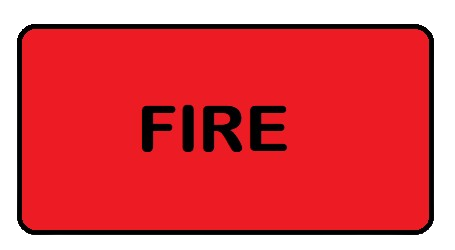
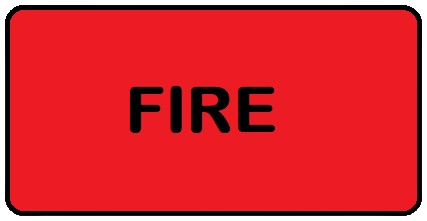
Implemented pointer hold event support for buttons Added placeholder assets for additional buttons

Changed region(s): [[0.0, 0.0, 1.0, 0.9774], [0.3044, 0.3801, 0.6698, 0.6244]]

diff --git a/ricelife-game/client/scripts/main.js b/ricelife-game/client/scripts/main.js
@@ -39,32 +39,34 @@ async function fireProjectile (shot, state, config) { // [!} laziness
 function handleInput (state, config) {
     const player = state.tanks[config.playerTank];
     const { keyboard, pointer } = state.input;
-    let pointerActive = false; // pointer inputs take precedence over keyboard inputs. don't "fight" for conflicting controls
-    // pointer
-    // [!] pointer logic handled by callbacks for now
-    
-    // keyboard
-    if (state.projectile === undefined) {
-        for (const [keyMapping, shotType] of Object.entries(state.projectileTypes))
-            if (keyboard.keyActive(keyMapping)) {
-                fireProjectile(shotType, state, config);
-                break;
-            }
-    }
-    player.position.round(1/GLOBAL_RESOLUTION);
-    if (keyboard.keyActive("mv+")) {
-        state.move.move(1);
-    }
-    if (keyboard.keyActive("mv-")) {
-        state.move.move(-1);
-    }
-    if (keyboard.keyActive("shot+")) {
-        state.aimer.power+=.02;
-    }
-    if (keyboard.keyActive("shot-")) {
-        state.aimer.power-=.02;
-    }
-    if (!pointerActive) {
+    let pointerActive = pointer.isActive; // pointer inputs take precedence over keyboard inputs. don't "fight" for conflicting controls
+    // [!] most pointer logic handled by callbacks
+    if (pointerActive) {
+        // pointer
+        if (pointer.isHolding)
+            state.interface.onhold(pointer.position);
+    } else {
+        // keyboard
+        if (state.projectile === undefined) {
+            for (const [keyMapping, shotType] of Object.entries(state.projectileTypes))
+                if (keyboard.keyActive(keyMapping)) {
+                    fireProjectile(shotType, state, config);
+                    break;
+                }
+        }
+        player.position.round(1/GLOBAL_RESOLUTION);
+        if (keyboard.keyActive("mv+")) {
+            state.move.move(1);
+        }
+        if (keyboard.keyActive("mv-")) {
+            state.move.move(-1);
+        }
+        if (keyboard.keyActive("shot+")) {
+            state.aimer.power+=.02;
+        }
+        if (keyboard.keyActive("shot-")) {
+            state.aimer.power-=.02;
+        }
         if (keyboard.keyActive("aim+")) {
             state.aimer.rotation++;
         }
@@ -197,8 +199,13 @@ async function load() {
     const body = await new LoadImage("./assets/tank/body.png").onload;
     const barrel = await new LoadImage("./assets/tank/barrel.png").onload;
     const testExplosion = await new Spritesheet("./assets/blast/explosion_ss_512x512.png", 512, 512).onload;
-    const fireButton = await new LoadImage("./assets/interface/buttons/fire.png").onload;
-    main(body, barrel, testExplosion, fireButton);
+    const buttons = await Promise.all([
+        new LoadImage("./assets/interface/buttons/fire.png").onload,
+        new LoadImage("./assets/interface/buttons/select.png").onload,
+        new LoadImage("./assets/interface/buttons/right.png").onload,
+        new LoadImage("./assets/interface/buttons/left.png").onload
+    ]);
+    main(body, barrel, testExplosion, buttons);
 }
 
 const FPS = 60;
@@ -232,7 +239,7 @@ const POINTER_CALLBACKS = (aimCtrl) => ({
 });
 
 function main(...loaded) {
-    const [tankBodyImage, tankBarrelImage, testExplosion, fireButton] = loaded;
+    const [tankBodyImage, tankBarrelImage, testExplosion, buttons] = loaded;
     tankBodyImage.width = 50;
     tankBarrelImage.scale.apply(tankBodyImage.scale);
     {
@@ -299,14 +306,32 @@ function main(...loaded) {
     
     {
         // setting up UI
-        fireButton.width = 200;
-        const button = new Menu.Button(fireButton);
-        button.position.apply(75, 150);
+        const [fireImage, selectImage, rightImage, leftImage] = buttons;
+        fireImage.height = 100;
+        selectImage.height = 100;
+        rightImage.height = 100;
+        leftImage.height = 100;
+        const fireButton = new Menu.DispatchButton(fireImage, Display.canvas, "FIRE");
+        fireButton.position.apply(75, 150);
+        const selectButton = new Menu.DispatchButton(selectImage, Display.canvas, "SELECT");
+        selectButton.position.apply(300, 150);
+        const rightButton = new Menu.DispatchButton(rightImage, Display.canvas, "RMOVE");
+        rightButton.position.apply(Display.size.x - rightImage.width - 75, 150);
+        const leftButton = new Menu.DispatchButton(leftImage, Display.canvas, "LMOVE");
+        leftButton.position.apply(rightButton.position.x - leftImage.width - 25, 150);
+
+        const btns = [fireButton, selectButton, rightButton, leftButton];
+
+        // setting up button listeners
+        Display.canvas.addEventListener("RMOVE_HOLD", () => Mover.move(1));
+        Display.canvas.addEventListener("LMOVE_HOLD", () => Mover.move(-1));
+        Display.canvas.addEventListener("RMOVE_CLICK", () => Mover.move(1));
+        Display.canvas.addEventListener("LMOVE_CLICK", () => Mover.move(-1));
 
         UIInterface.insert() // draw layer zero after background but before terrain
             .push(Aimer);
         UIInterface.insert()
-            .push(button);
+            .push(...btns);
     }
 
     Mover.set(Math.floor(Display.size.x / 4));

diff --git a/ricelife-game/client/scripts/controller/player.js b/ricelife-game/client/scripts/controller/player.js
@@ -63,6 +63,10 @@ class PointerListener  {
     #offset = new Vector();
     #scale = new Vector(1, 1);
     #elementSize = new Vector(0, 0);
+    #holding = {
+        isHolding: false,
+        timeout: undefined
+    };
     #tracking = {
         position: new Vector(),
         down: {
@@ -86,11 +90,26 @@ class PointerListener  {
         this.#listeningTo.addEventListener("pointerup", (event) => this.#updateUp(event));
     }
 
+    #setHoldTimeout () {
+        const { position } = this;
+        this.#clearHoldTimeout();
+        this.#holding.timeout = setTimeout(() => {
+            this.#holding.isHolding = (this.isActive && position.eq(this.position))
+        }, this.#clickMs);
+    }
+
+    #clearHoldTimeout () {
+        this.#holding.isHolding = false;
+        if (this.#holding.timeout)
+            clearTimeout(this.#holding.timeout);
+    }
+
     #updateDown (event) { // keep up and down event callbacks seperate for (marginal) perfomance boost
         this.#updatePosition(event);
         this.#tracking.up.stamp = undefined; // clear data from last down event
         this.#tracking.down.stamp = performance.now();
         this.#tracking.down.position.apply(this.#tracking.position);
+        this.#setHoldTimeout();
     }
 
     #updateUp (event) {
@@ -100,10 +119,12 @@ class PointerListener  {
             this.callbackFns?.onclick(this.position);
         this.#tracking.up.stamp = performance.now();
         this.#tracking.up.position.apply(this.#tracking.position);
+        this.#clearHoldTimeout();
     }
 
     #updateMove (event) {
         this.#updatePosition(event);
+        this.#setHoldTimeout();
         // drag detection
         if (this.activeDuration >= this.#clickMs - Number.EPSILON)
             this.callbackFns?.ondrag(this.position, this.#tracking.down.position); // pass origin position by reference to avoid making duplicates
@@ -152,6 +173,7 @@ class PointerListener  {
     }
 
     get position () { return this.#tracking.position.clone() }
+    get isHolding () { return this.#holding.isHolding = (this.isActive && this.#holding.isHolding) }
     get isActive () { return this.#tracking.down.stamp !== undefined && this.#tracking.up.stamp === undefined }
     get isDragging () { return this.activeDuration >= this.#clickMs - Number.EPSILON }
     get dragStart () { return this.isDragging ? this.#tracking.down.position.clone() : undefined }

diff --git a/ricelife-game/client/scripts/menu/button.js b/ricelife-game/client/scripts/menu/button.js
@@ -33,3 +33,24 @@ export class Button extends TrackableObject {
     get width () { return this.#img.width }
     get height () { return this.#img.height }
 }
+
+export class DispatchButton extends Button {
+    #eventPrefix;
+    #events = {
+        click: undefined,
+        hold: undefined,
+    }
+    #dispatchTo;
+    constructor (image, dispatchTo, elementPrefix = null) {
+        super(image);
+        this.#eventPrefix = elementPrefix === null
+            ? this.id
+            : elementPrefix;
+        this.#dispatchTo = dispatchTo;
+        this.#events.click = new CustomEvent(`${this.#eventPrefix}_CLICK`);
+        this.#events.hold = new CustomEvent(`${this.#eventPrefix}_HOLD`);
+    }
+
+    onclick (point) { this.#dispatchTo.dispatchEvent(this.#events.click) }
+    onhold (point) { if (this.isOver(point)) this.#dispatchTo.dispatchEvent(this.#events.hold) }
+}

diff --git a/ricelife-game/client/scripts/menu/interface.js b/ricelife-game/client/scripts/menu/interface.js
@@ -34,6 +34,14 @@ export class Interface { // pointer events are prioritized in FIFO order
             if ((item = layer.isDragged(origin)) !== undefined) break;
         if (item !== undefined) item.ondrag(point);
     }
+
+    onhold (point) {
+        let item = undefined;
+        for (const layer of this.#iterate())
+            if ((item = layer.isHeld(point)) !== undefined) break;
+        if (item !== undefined) item.onhold(point);
+    }
+
     draw (cursor, start = 0, end = -1) { for (const layer of this.#iterate(start, end, false)) layer.draw(cursor) }
     slice (start = 0, end = -1) { return new Interface(...this.#layers.slice(start, end)) }
 
@@ -94,6 +102,16 @@ class InterfaceLayer extends TrackableObject { // pointer events are prioritized
         }
         return undefined;
     }
+    isHeld (point) {
+        for (const item of this.items) {
+            if (
+                this.#supportsCursorEvents(item)
+                && this.#supportsHoldEvents(item)
+                && item.isOver(point)
+            ) return item;
+        }
+        return undefined;
+    }
     isOver (point) {
         for (const item of this.items) {
             if (
@@ -112,6 +130,7 @@ class InterfaceLayer extends TrackableObject { // pointer events are prioritized
     #supportsDraw (item) { return typeof item?.draw === "function" }
     #supportsCursorEvents (item) { return typeof item?.isOver === "function" }
     #supportsClickEvents (item) { return typeof item?.onclick === "function" }
+    #supportsHoldEvents (item) { return typeof item?.onhold === "function" }
     #supportsDragEvents (item) { return typeof item?.ondrag === "function" }
 
     get isInterfaceLayer () { return true }